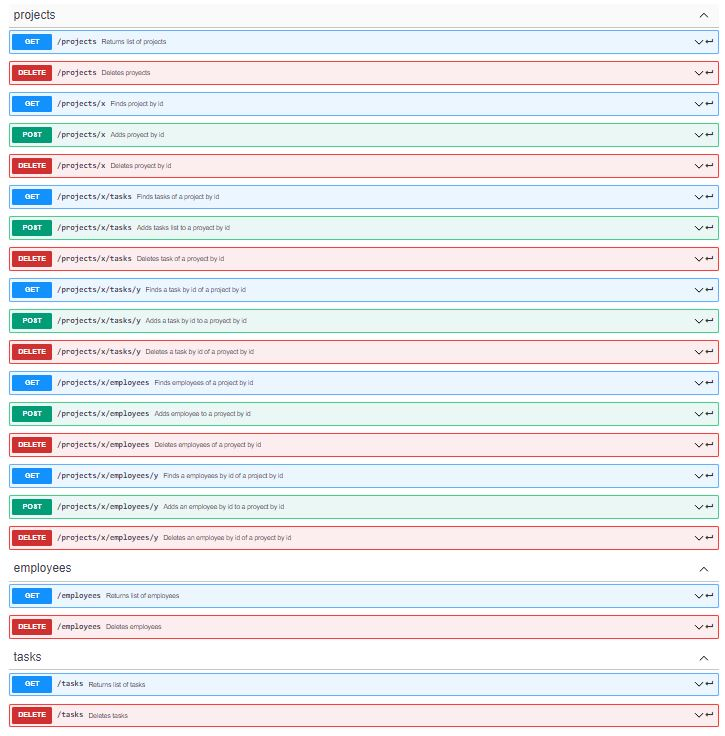
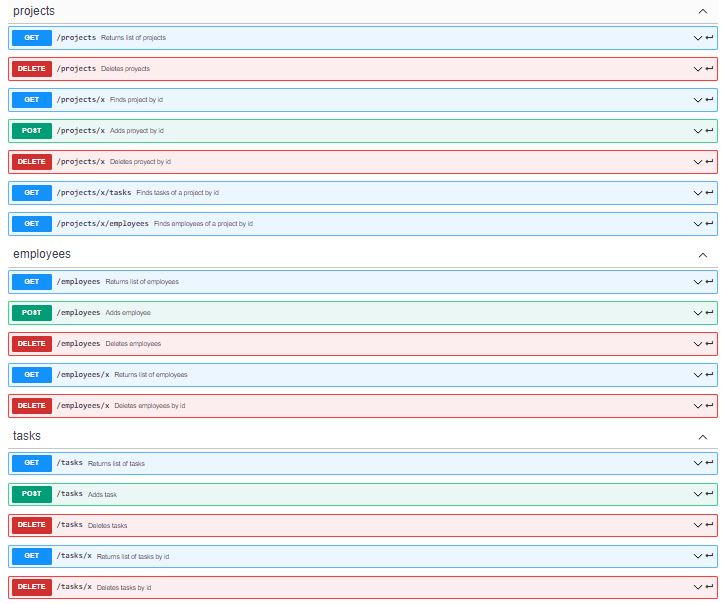
Carga de JSON y ultimos cambios

diff --git a/routes.js b/routes.js
@@ -71,20 +71,69 @@ app.get('/projects/:idProject', async (request, response) => {
     }
 })
 
-// POST Project
-
-app.post("/projects", async (request, response) => {
-    const project = new Project(request.body);
-    console.log(request.body)
+app.get('/projects/:idProject/tasks', async (request, response) => {
+  console.log(request.params.idProject)
+  const tasks = await Task.find({project_id: request.params.idProject});
     try {
-      project.save(function(err, doc) {
-        if (err) return console.error(err);
-        console.log("Document inserted succussfully!");
-      });
-      response.send(project);
+      response.status(200)
+      response.send(tasks);
     } catch (error) {
       response.status(500).send(error);
     }
+})
+
+app.get('/projects/:idProject/employees', async (request, response) => {
+  console.log(request.params.idProject)
+  const employees = await Employee.find({project_id: request.params.idProject});
+    try {
+      response.status(200)
+      response.send(employees);
+    } catch (error) {
+      response.status(500).send(error);
+    }
+})
+
+// POST Project
+
+app.post('/projects', async (request, response) => {
+  const project = new Project(request.body);
+  console.log(request.body)
+  try {
+    project.save(function(err, doc) {
+      if (err) return console.error(err);
+        console.log("Document inserted succussfully!");
+      });
+    response.send(project);
+  } catch (error) {
+    response.status(500).send(error);
+  }
+});
+
+// PATCH Project
+
+app.patch('/projects/:idProject', async (request, response) => {
+  try {
+    const project = await Project.findOne({project_id: request.params.idProject});
+    console.log(request.body.project_name)
+    if (request.body.project_name) {
+			project.project_name = request.body.project_name
+		}
+		if (request.body.description) {
+			project.description = request.body.description
+		}
+    if (request.body.estimated_hours) {
+			project.description = request.body.estimated_hours
+		}
+    await project.save()
+    project.save(function(err, doc) {
+      if (err) return console.error(err);
+        console.log("Document inserted succussfully!");
+      });
+    response.send(project);
+  } catch (error) {
+    response.status(404)
+		response.send({ error: "El proyecto indicado no existe!" })
+  }
 });
 
 // DELETE Project
